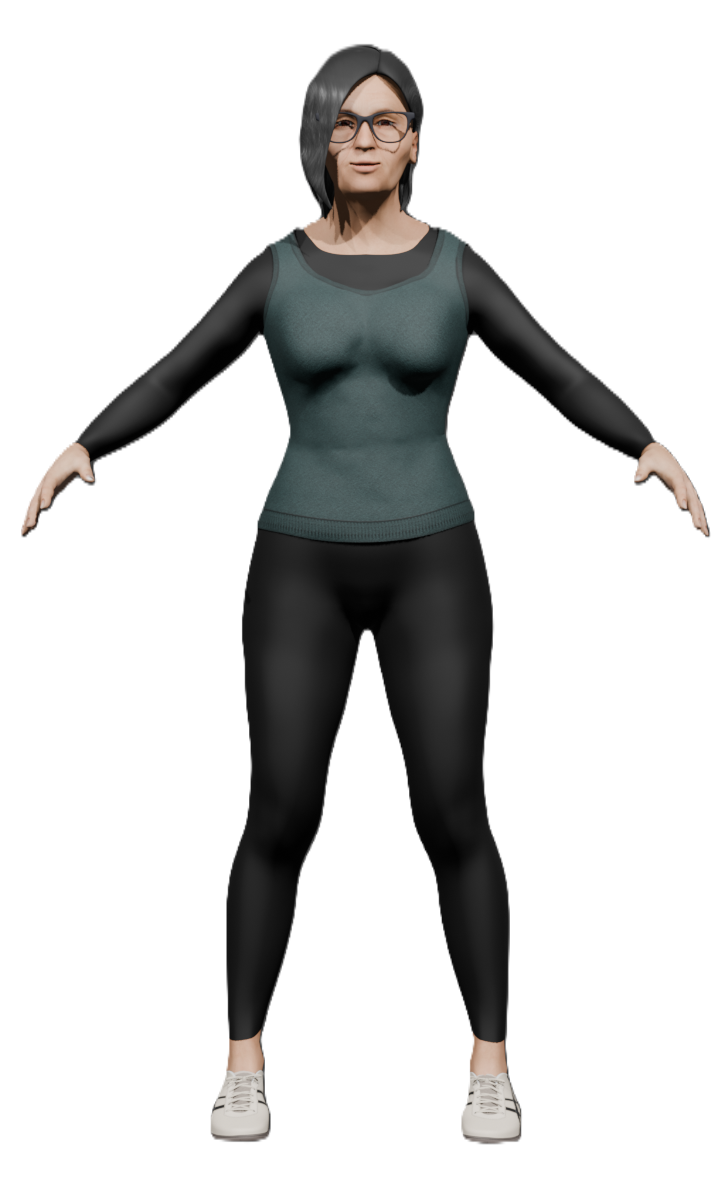
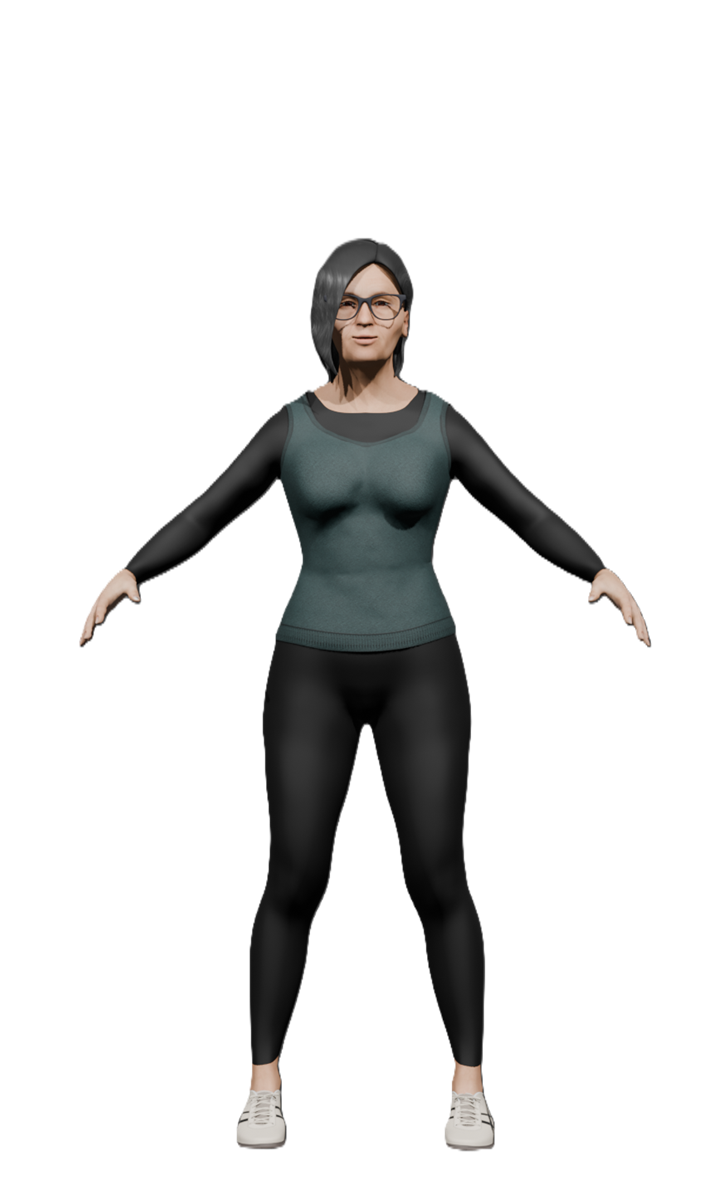
feat: aplica a velocidade de execução no vídeo do exercício

Changed region(s): [[0.0303, 0.0308, 1.0, 0.9867], [0.091, 0.5242, 0.1214, 0.555]]

diff --git a/telas/treinoExecucao/ExercicioMidia.tsx b/telas/treinoExecucao/ExercicioMidia.tsx
@@ -7,6 +7,8 @@ type ExercicioMidiaProps = {
   videoUrl?: string;
   duracaoTotalSegundos?: number;
   isPaused?: boolean;
+  /** Velocidade de reprodução cadastrada no exercício (1 = original). */
+  velocidade?: number;
 };
 
 const YOUTUBE_HOSTS = [
@@ -81,7 +83,9 @@ export default function ExercicioMidia({
   videoUrl,
   duracaoTotalSegundos,
   isPaused = false,
+  velocidade,
 }: ExercicioMidiaProps) {
+  const taxaReproducao = typeof velocidade === 'number' && velocidade > 0 ? velocidade : 1;
   const [erroVideo, setErroVideo] = React.useState(false);
   const nativeVideoRef = React.useRef<any>(null);
   const webVideoRef = React.useRef<any>(null);
@@ -112,6 +116,20 @@ export default function ExercicioMidia({
       webVideoRef.current.play?.().catch(() => {});
     }
   }, [isPaused, videoUrl]);
+
+  // No <video> do navegador a velocidade é propriedade do elemento, não atributo.
+  // defaultPlaybackRate garante que ela se mantenha quando o vídeo recarrega/reinicia.
+  const aplicarVelocidadeWeb = React.useCallback(() => {
+    const elemento = webVideoRef.current;
+    if (elemento) {
+      elemento.defaultPlaybackRate = taxaReproducao;
+      elemento.playbackRate = taxaReproducao;
+    }
+  }, [taxaReproducao]);
+
+  React.useEffect(() => {
+    aplicarVelocidadeWeb();
+  }, [aplicarVelocidadeWeb, sourceUri]);
 
   return (
     <View style={styles.container}>
@@ -147,6 +165,7 @@ export default function ExercicioMidia({
               loop={shouldLoopVideo}
               src={sourceUri}
               style={styles.video}
+              onLoadedMetadata={aplicarVelocidadeWeb}
               onError={() => setErroVideo(true)}
             />
           ) : (
@@ -157,6 +176,8 @@ export default function ExercicioMidia({
               resizeMode={ResizeMode.CONTAIN}
               shouldPlay={!isPaused}
               isLooping={shouldLoopVideo}
+              rate={taxaReproducao}
+              shouldCorrectPitch
               onError={() => setErroVideo(true)}
             />
           )

diff --git a/types/treino.ts b/types/treino.ts
@@ -11,6 +11,8 @@ export interface TreinoExercicioDTO {
   series: number;
   descansoSegundos: number;
   descansoTransicaoSegundos: number;
+  /** Velocidade de reprodução do vídeo definida pelo pesquisador no plano de treino (1 = original). */
+  velocidadeExecucao?: number;
   duracaoEstimadaSegundos: number;
   exercicio: ExercicioDTO;
 }

diff --git a/telas/TelaTreinoExecucao.tsx b/telas/TelaTreinoExecucao.tsx
@@ -118,6 +118,7 @@ export default function TelaTreinoExecucao({
         />
         <ExercicioMidia
           videoUrl={exercicioAtual.exercicio.videoUrl}
+          velocidade={exercicioAtual.velocidadeExecucao}
           duracaoTotalSegundos={exercicioAtual.duracaoEstimadaSegundos}
           isPaused={pausado}
         />
